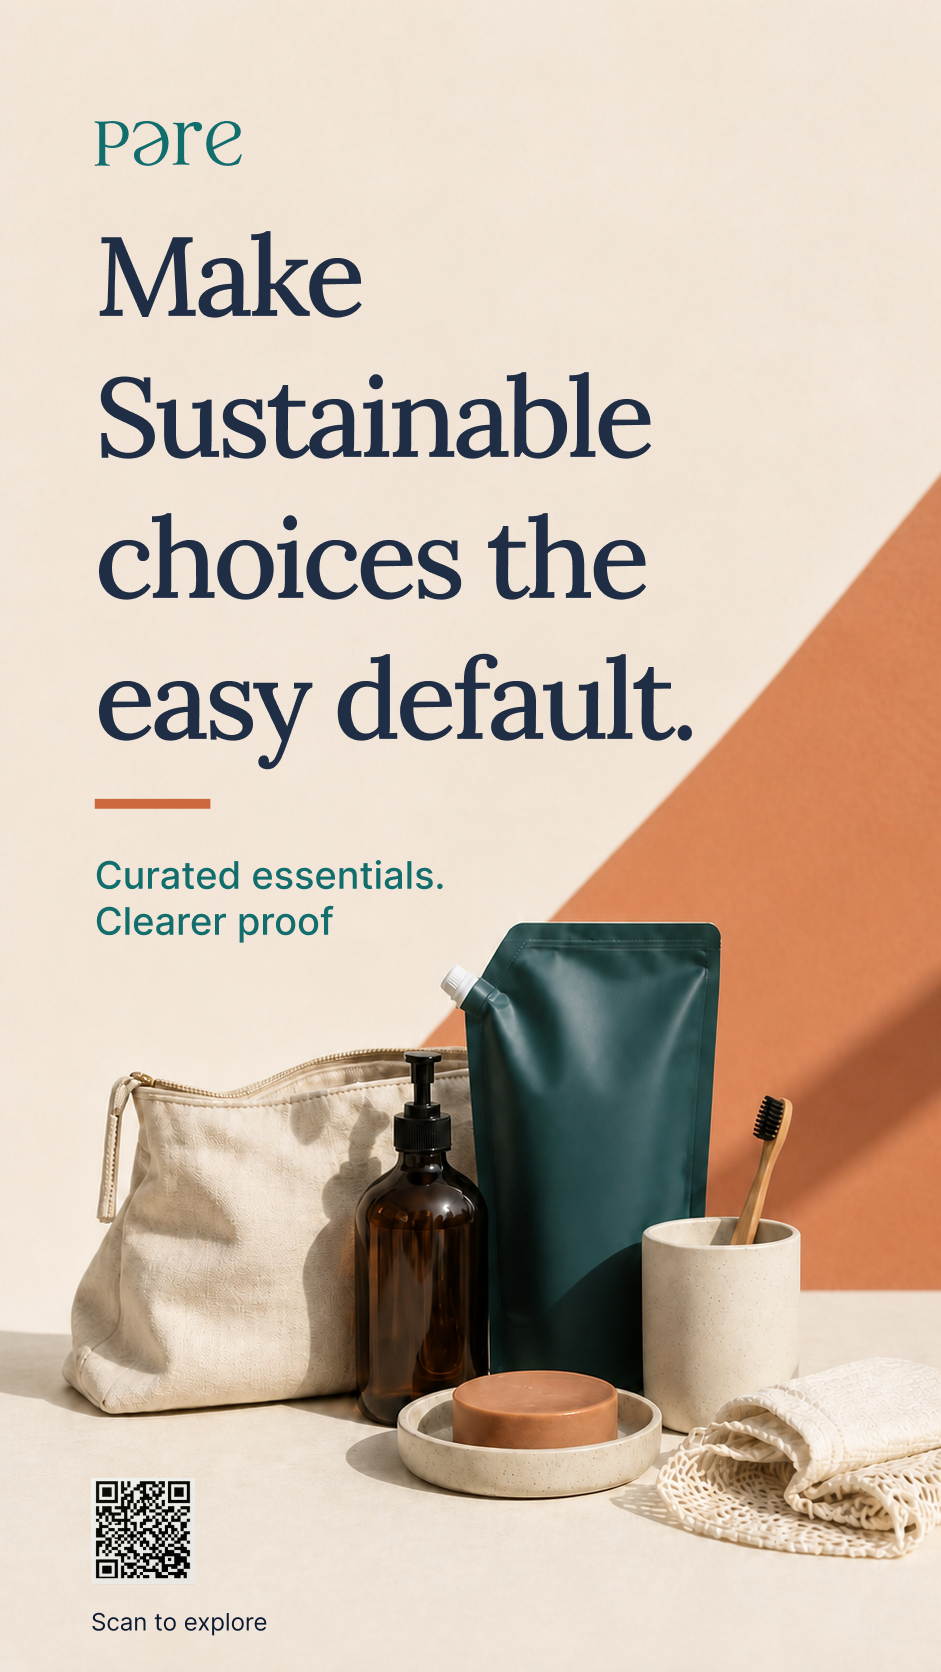
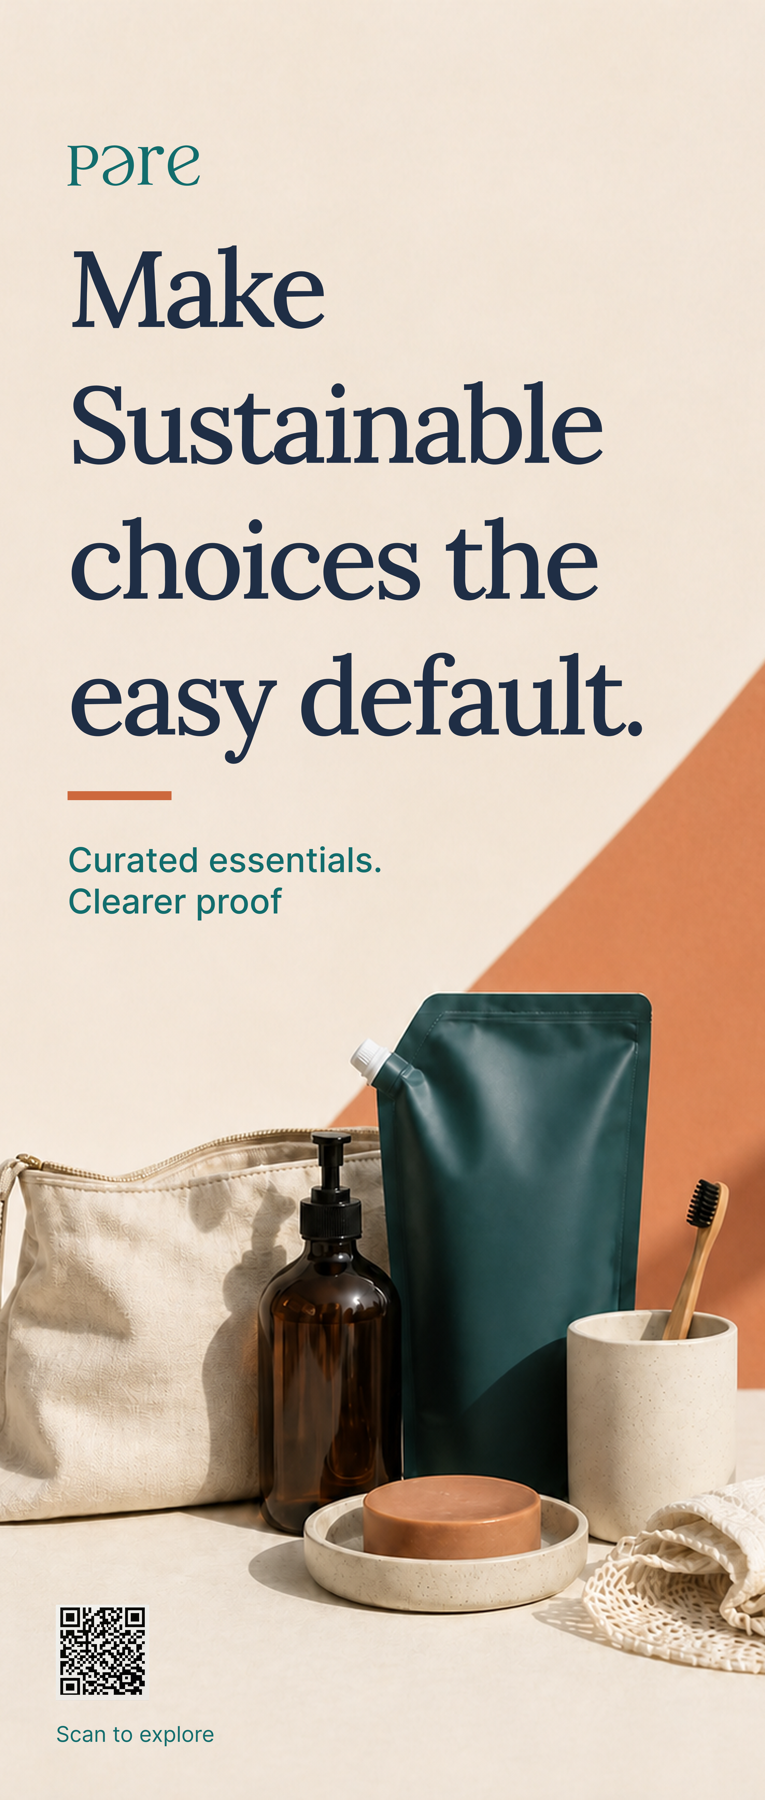
Replace kakemono images with final 6-variant artwork
New artwork from Desktop: terracotta split, warm oat, warm terracotta,
teal-led, navy arch, navy full. Resized to 1800px max for web.

Changed region(s): [[0.0, 0.0622, 1.0, 0.9952]]

diff --git a/components/chapters/Campaign.tsx b/components/chapters/Campaign.tsx
@@ -275,11 +275,12 @@ export default function Campaign() {
           style={{ display: "flex", gap: 16, paddingLeft: 80, paddingRight: 80, paddingBottom: 8 }}
         >
           {[
-            { src: "/kakemono-1.png", label: "Cream — day" },
-            { src: "/kakemono-2.png", label: "Navy — evening" },
-            { src: "/kakemono-3.png", label: "Arch — neutral" },
-            { src: "/kakemono-4.png", label: "Warm — apricot" },
-            { src: "/kakemono-5.png", label: "Teal accent" },
+            { src: "/kakemono-1.png", label: "Terracotta split" },
+            { src: "/kakemono-2.png", label: "Warm oat" },
+            { src: "/kakemono-3.png", label: "Warm terracotta" },
+            { src: "/kakemono-4.png", label: "Teal-led" },
+            { src: "/kakemono-5.png", label: "Navy — arch" },
+            { src: "/kakemono-6.png", label: "Navy — full" },
           ].map((p, i) => (
             <div key={i} style={{ flexShrink: 0, display: "flex", flexDirection: "column", gap: 14 }}>
               {/* eslint-disable-next-line @next/next/no-img-element */}
